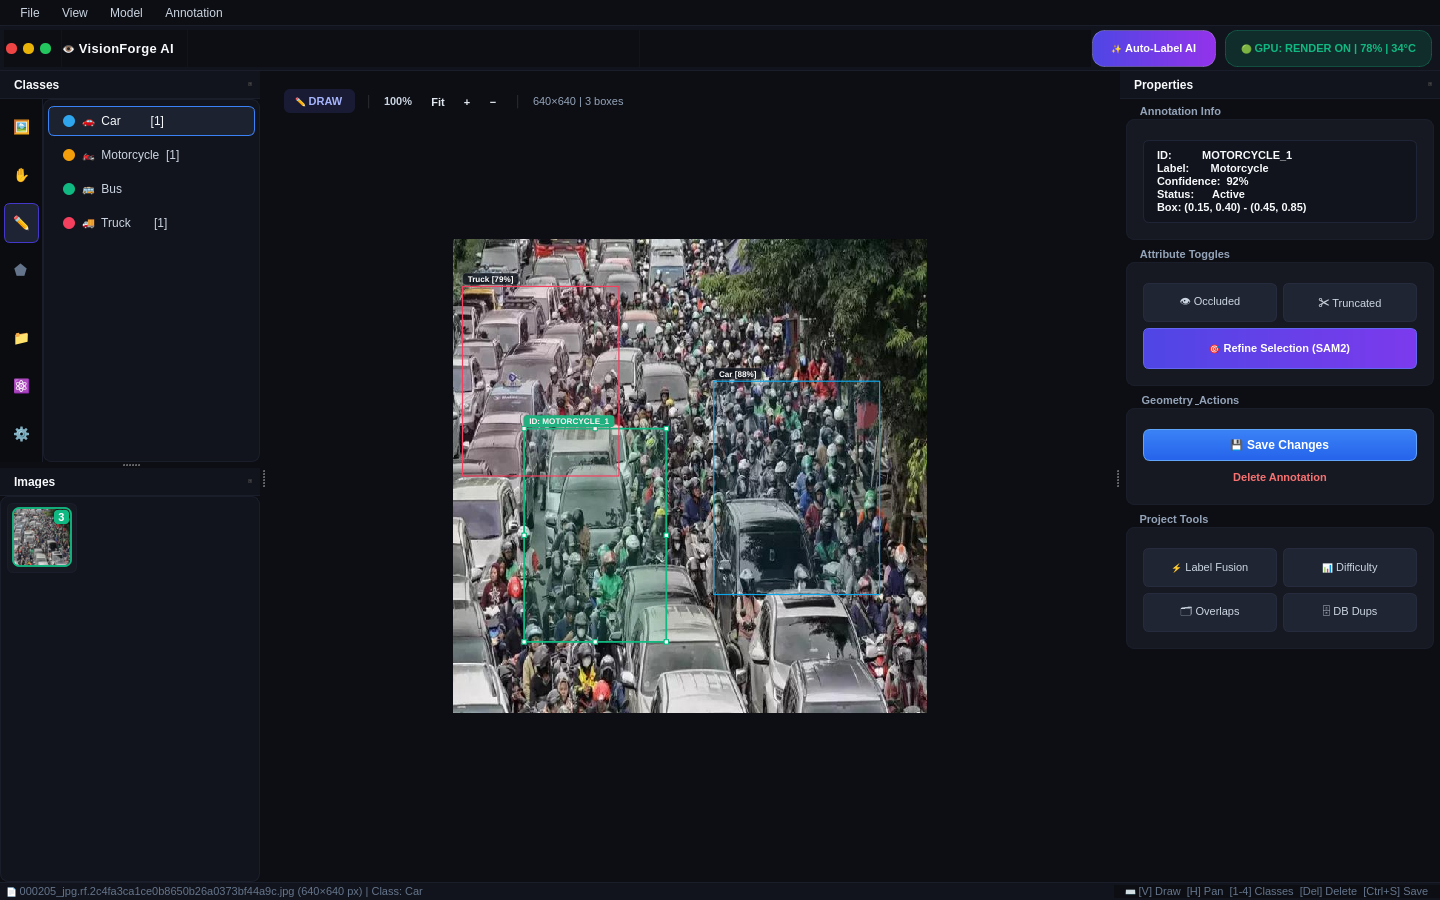
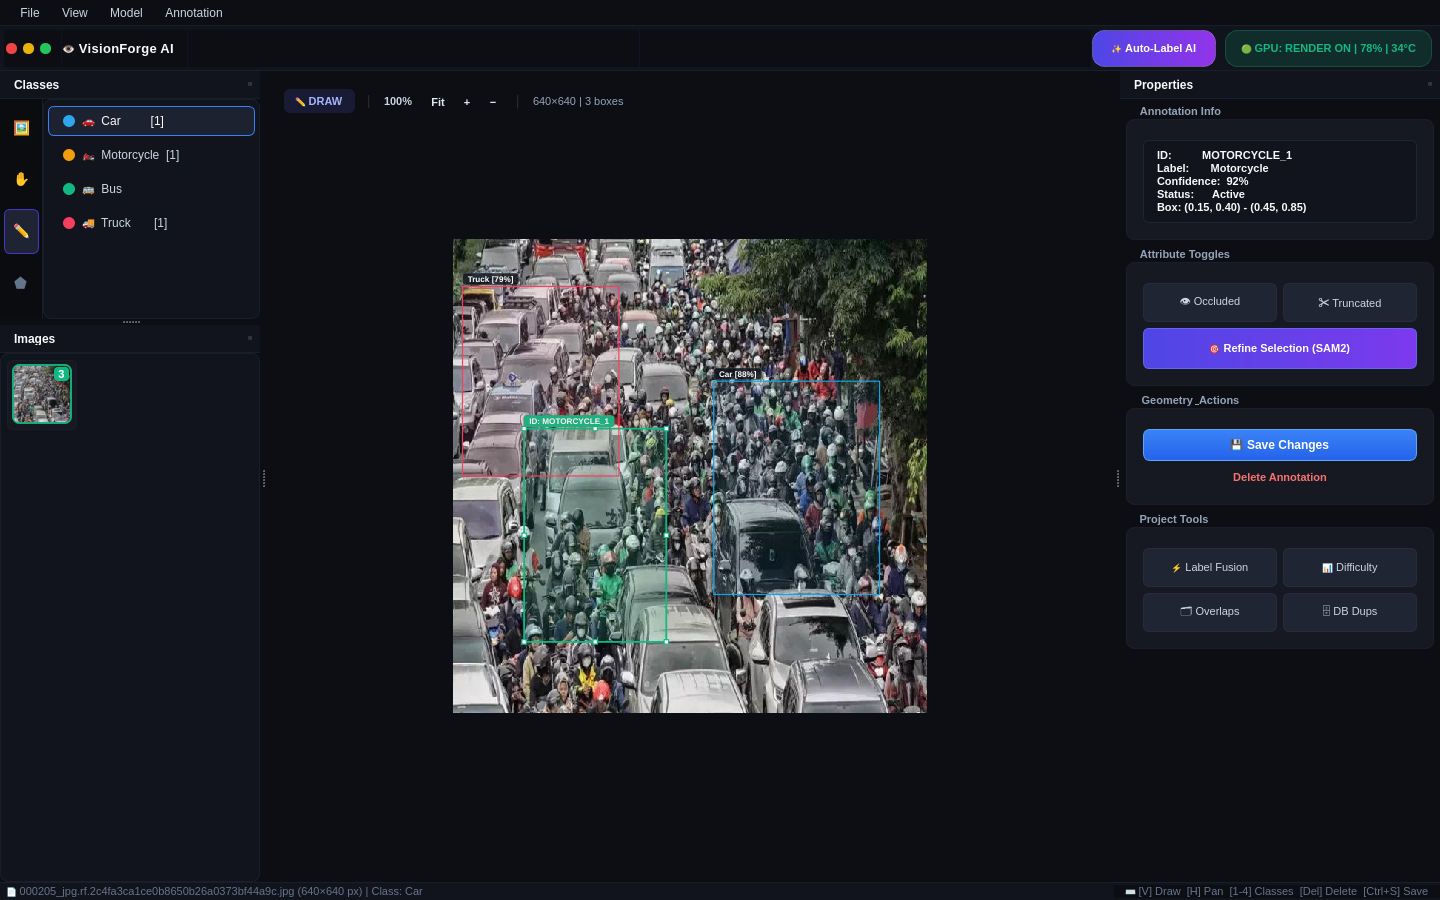
Completely remove redundant Top Header tabs and extra activity rail tools for absolute minimalism

diff --git a/app/ui/main_window.py b/app/ui/main_window.py
@@ -750,26 +750,8 @@ class MainWindow(QMainWindow):
         rail_mode_group.addButton(self._rail_polygon_btn)
         rail_mode_group.setExclusive(True)
 
-        rail_layout.addSpacing(16)
-
-        self._rail_dataset_btn = QToolButton(rail)
-        self._rail_dataset_btn.setText("📁")
-        self._rail_dataset_btn.setToolTip("Dataset (Ctrl+O)")
-        self._rail_dataset_btn.clicked.connect(self._import_folder)
-        rail_layout.addWidget(self._rail_dataset_btn)
-
-        self._rail_models_btn = QToolButton(rail)
-        self._rail_models_btn.setText("⚛")
-        self._rail_models_btn.setToolTip("Models")
-        self._rail_models_btn.clicked.connect(self._load_yolo_model)
-        rail_layout.addWidget(self._rail_models_btn)
-
         rail_layout.addStretch()
 
-        exit_btn = QToolButton(rail)
-        exit_btn.setText("⚙")
-        exit_btn.setToolTip("Workspace Settings")
-        rail_layout.addWidget(exit_btn)
         left_combined_layout.addWidget(rail)
 
         # 2. Classes List
